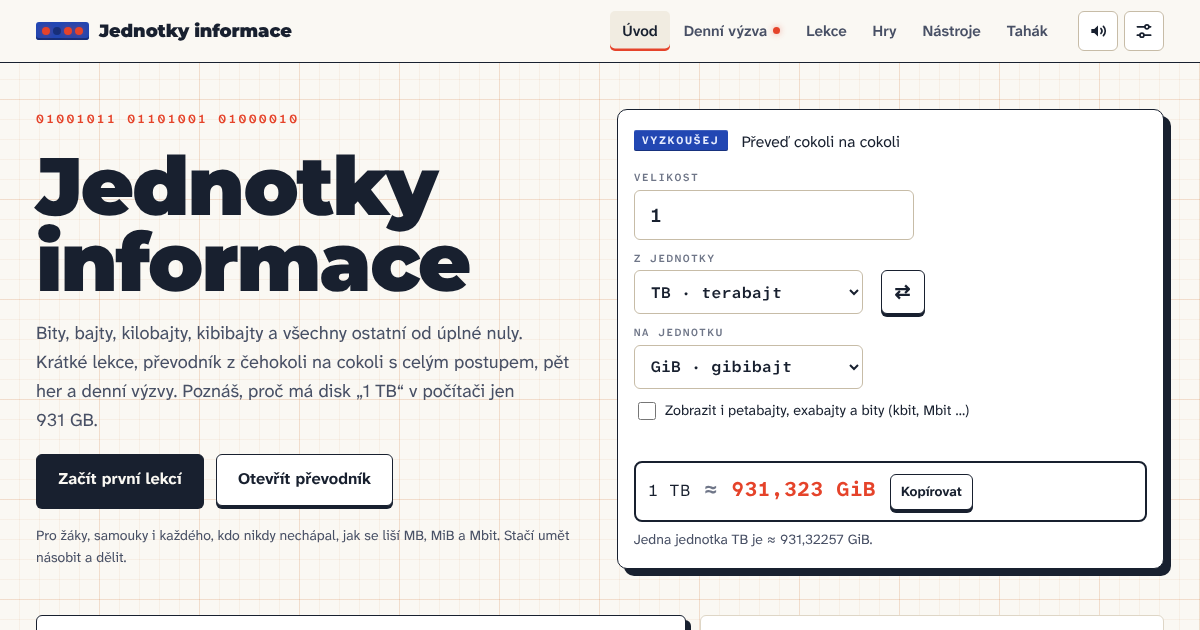
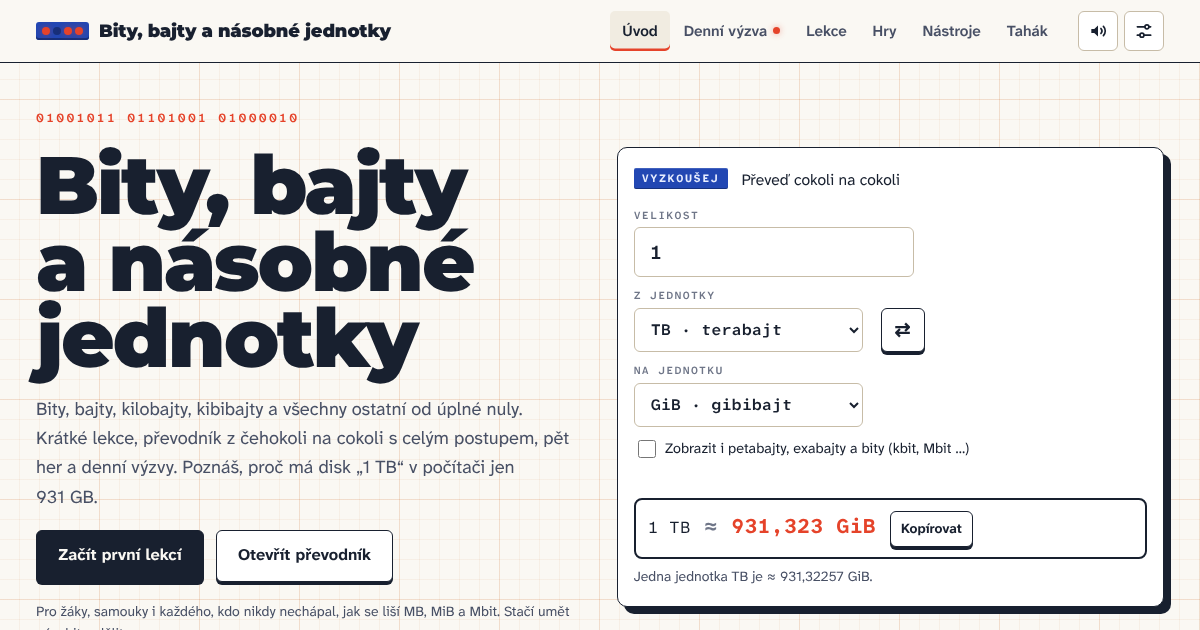
Aplikace Jednotky informace přejmenována na Bity, bajty a násobné jednotky (katalog, nadpisy, náhled)
Claude-Session: https://claude.ai/code/session_01BEUPNzadzTH9h2qQ7Kx97s

diff --git a/jednotky-informace/index.html b/jednotky-informace/index.html
@@ -3,7 +3,7 @@
 <head>
 <meta charset="utf-8">
 <meta name="viewport" content="width=device-width, initial-scale=1, viewport-fit=cover">
-<title>Jednotky informace</title>
+<title>Bity, bajty a násobné jednotky</title>
 <meta name="description" content="Bity, bajty a jejich násobky: kilobajty, megabajty, kibibajty, mebibajty a další. Jedenáct lekcí, převodník z čehokoli na cokoli s postupem, pět her, denní výzvy a vstupní test.">
 <meta name="author" content="Ivo Bešťák">
 <link rel="stylesheet" href="fonty/fonty.css">
@@ -1422,7 +1422,7 @@ table.data.isa td { white-space: normal; }
 .gp-back:hover { color: var(--ink); text-decoration: underline; }
 
 
-/* ===== Jednotky informace: doplňky ke vzhledu ===== */
+/* ===== Bity, bajty a násobné jednotky: doplňky ke vzhledu ===== */
 select.inp, .inp.sel { width: auto; min-width: 11em; max-width: 100%; appearance: auto; cursor: pointer; min-height: 44px; }
 .inp { min-height: 44px; }
 .conv-in { align-items: end; }
@@ -1518,7 +1518,7 @@ td .u { color: var(--ink-3); font-size: .85rem; }
   <div class="wrap top-in">
     <a class="brand" href="#uvod" title="1 KiB = 1 024 B, 1 kB = 1 000 B">
       <span class="brand-leds" aria-hidden="true"><i class="on"></i><i></i><i class="on"></i><i class="on"></i></span>
-      <span>Jednotky informace</span>
+      <span>Bity, bajty a násobné jednotky</span>
     </a>
     <nav class="nav" aria-label="Hlavní navigace">
       <a href="#uvod" data-sec="uvod">Úvod</a>
@@ -1553,8 +1553,8 @@ td .u { color: var(--ink-3); font-size: .85rem; }
 <footer class="foot">
   <div class="wrap">
     <div class="foot-main">
-      <p class="foot-title"><b>Jednotky informace</b> · výukový projekt z informatiky</p>
-      <p class="foot-author">Autor: <b>Ivo Bešťák</b> · Licence <a href="https://creativecommons.org/licenses/by/4.0/deed.cs" target="_blank" rel="noopener">CC BY 4.0</a> · Aktualizace: 1. 11. 2026</p>
+      <p class="foot-title"><b>Bity, bajty a násobné jednotky</b> · výukový projekt z informatiky</p>
+      <p class="foot-author">Autor: <b>Ivo Bešťák</b> · Licence <a href="https://creativecommons.org/licenses/by/4.0/deed.cs" target="_blank" rel="noopener">CC BY 4.0</a> · Aktualizace: 2. 11. 2026</p>
       <p class="small">Struktura aplikace a její vzhled vycházejí z aplikací Dalibora Jecha: <a href="../dvojkova-a-sestnactkova-soustava/">Dvojková a šestnáctková soustava</a> a <a href="../logicke-obvody-a-procesor/">Logické obvody a procesor</a>.</p>
     </div>
     <div class="foot-side">
@@ -1978,7 +1978,7 @@ td .u { color: var(--ink-3); font-size: .85rem; }
 
 <script>
 'use strict';
-/* Jednotky informace: bity, bajty a jejich násobky. Vzhled a základní kód převzat z aplikace Dvojková a šestnáctková soustava. */
+/* Bity, bajty a násobné jednotky: bity, bajty a jejich násobky. Vzhled a základní kód převzat z aplikace Dvojková a šestnáctková soustava. */
 const APP_ID = 'jednotky';
 
 const $ = (s, r = document) => r.querySelector(s);
@@ -2016,7 +2016,7 @@ const uid = (p = 'u') => `${p}-${++_uid}`;
 
 
 /* =====================================================================
-   Jednotky informace: přesné počítání s BigInt zlomky, formátování čísel
+   Bity, bajty a násobné jednotky: přesné počítání s BigInt zlomky, formátování čísel
    po česku, seznam jednotek a generátory postupů převodu.
    ===================================================================== */
 
@@ -3585,7 +3585,7 @@ function maybeWelcome() {
   if (Store.d.placement || modalCloser) return;
   const { el, close } = openModal(`
     <div class="welcome"><div class="brand-leds big" aria-hidden="true"><i class="on"></i><i></i><i class="on"></i><i class="on"></i></div>
-    <h2>Vítej v aplikaci Jednotky informace!</h2>
+    <h2>Vítej v aplikaci Bity, bajty a násobné jednotky!</h2>
     <p>Chceš si udělat krátký vstupní test? Má 12 otázek a zabere asi 3 minuty. Podle výsledku ti doporučím, kde začít a jakou obtížnost si vybrat.</p>
     <p class="small muted">U každé otázky můžeš zvolit „Nevím“. Test najdeš kdykoli v Nastavení.</p>
     <div class="modal-actions"><a class="key primary" href="#test" data-go data-autofocus>Udělat test</a><button type="button" class="key" data-no>Ne, díky</button></div></div>`, { label: 'Vítej' });
@@ -3677,7 +3677,7 @@ function dailyFinalizeStale(today) {
 
 function dailyShareText(today = todayStr()) {
   const st = dailyStreaks(today), h = Store.d.daily.hist[today];
-  const lines = [`Jednotky informace · denní výzva ${czShort(today)}`];
+  const lines = [`Bity, bajty a násobné jednotky · denní výzva ${czShort(today)}`];
   if (h) lines.push(`Otázky: ${(h.qa || []).map(x => x ? '🟩' : '🟥').join('')} ${h.q}/5`, `Hra dne (${DAILY_NAMES[h.game] || 'hra'}): ${h.g ? '✅' : '❌'}`, h.won ? 'Výzva splněna! 🏆' : 'Dnes to nevyšlo, zítra znovu.');
   lines.push(`🔥 Série: ${st.play} ${plural(st.play, 'den', 'dny', 'dní')} v kuse (${toB(st.play, 2)}₂)`, `Vyhrané dny v kuse: ${st.win}`, `Úroveň ${h ? h.lvl : dailyLevel()} z 10`);
   return lines.join('\n');
@@ -3690,7 +3690,7 @@ function shareText(text) {
   const copy = () => {
     try { if (navigator.clipboard && navigator.clipboard.writeText) navigator.clipboard.writeText(text).then(() => toast('Zkopírováno. Teď to vlož kamarádům.', 'ok'), fallback); else fallback(); } catch (e) { fallback(); }
   };
-  try { if (navigator.share) { navigator.share({ title: 'Jednotky informace', text }).catch(err => { if (!err || err.name !== 'AbortError') copy(); }); return; } } catch (e) { /* sdílení není dostupné */ }
+  try { if (navigator.share) { navigator.share({ title: 'Bity, bajty a násobné jednotky', text }).catch(err => { if (!err || err.name !== 'AbortError') copy(); }); return; } } catch (e) { /* sdílení není dostupné */ }
   copy();
 }
 
@@ -4131,7 +4131,7 @@ function renderHome(main) {
   <section class="hero">
     <div class="hero-text">
       <p class="hero-bits mono" title="Slovo KiB zapsané v kódu ASCII">01001011 01101001 01000010</p>
-      <h1>Jednotky informace</h1>
+      <h1>Bity, bajty a násobné jednotky</h1>
       <p class="lead">Bity, bajty, kilobajty, kibibajty a všechny ostatní od úplné nuly. Krátké lekce, převodník z čehokoli na cokoli s celým postupem, pět her a denní výzvy. Poznáš, proč má disk „1 TB“ v počítači jen 931 GB.</p>
       <div class="hero-cta"><a class="key primary big" href="#lekce-${nextL.n}">${done ? `Pokračovat lekcí ${nextL.n}` : 'Začít první lekcí'}</a><a class="key big" href="#nastroje">Otevřít převodník</a></div>
       <p class="small muted">Pro žáky, samouky i každého, kdo nikdy nechápal, jak se liší MB, MiB a Mbit. Stačí umět násobit a dělit.</p>
